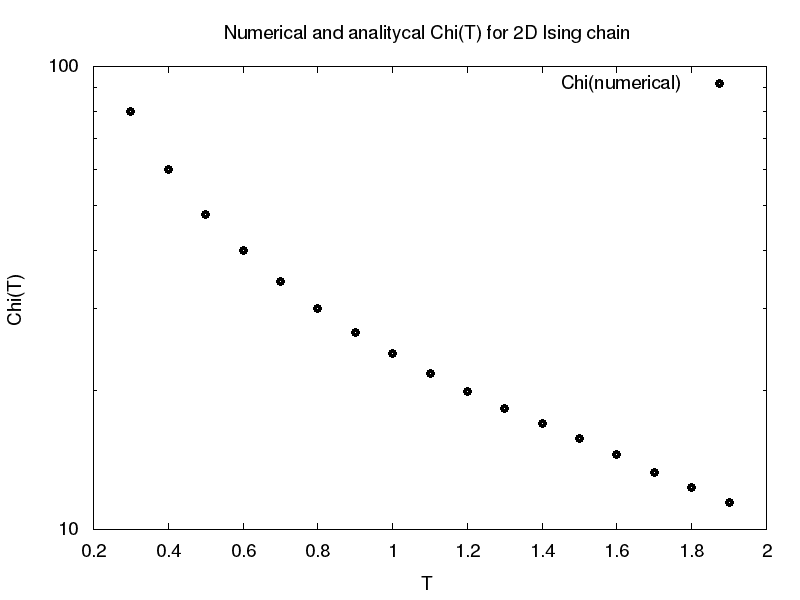
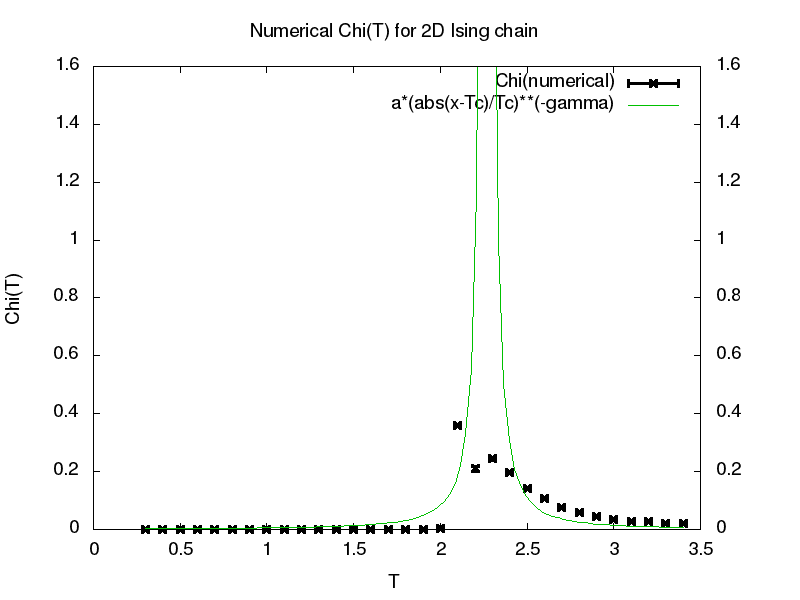
Fixed problem with calculation of Chi

diff --git a/trunk/IsingModelSimulations5_2/Tests/IsingTestChi2D.h b/trunk/IsingModelSimulations5_2/Tests/IsingTestChi2D.h
@@ -38,11 +38,11 @@ class IsingTestChi2D : public IsingTest {
         cout << " Running test..." << endl;    
             
         //SIMULATION INPUT DATA
-        int chainLength      = 5;        
+        int chainLength      = 10;        
         double magneticField = 0.0;
-        int therm_t          = 100;   //thermalization time
-        int measure_f        = 1;     //measure frequency
-        int prod_t           = 1000;  //productiontime
+        int therm_t          = 1000;   //thermalization time
+        int measure_f        = 10;     //measure frequency
+        int prod_t           = 10000;  //productiontime
         int maxGdist         = 10;     //domain of correlation function extends from 0 to maxGdist-1
         int maxTsep          = 2;
         double initState     = 0.7;    //values between 0.5 and 1.0
@@ -60,7 +60,7 @@ class IsingTestChi2D : public IsingTest {
         cout << "----------------------------------------------------" << endl;
         
         
-        for( double temperature = 0.3 ; temperature < 2.0 ; temperature += 0.1  ){         
+        for( double temperature = 0.3 ; temperature < 3.5 ; temperature += 0.1  ){         
         //CREATION AND INITIALIZATION OF THE INSTANCE OF ISING CLASS
         Ising2D chain2D(chainLength, temperature, magneticField, initState, maxGdist, maxTsep);
         //CALL TO THE ISING CLASS MEMBER FUNCTION PERFORMING SIMULATION
@@ -91,6 +91,7 @@ class IsingTestChi2D : public IsingTest {
         Ising2D chain2D(n, temperature, magneticField, initState, maxGdist, maxTsep);
         //CALL TO THE ISING CLASS MEMBER FUNCTION PERFORMING SIMULATION
         chain2D.MC_simulation(therm_t, prod_t, measure_f, METHOD_METROPOLIS);
+        
                 
         double chi      = chain2D.Chi(gettotalFname().c_str());
         //double chi_anal = exp(2./temperature)/temperature;

diff --git a/trunk/IsingModelSimulations5_2/IsingMain5_2.cpp b/trunk/IsingModelSimulations5_2/IsingMain5_2.cpp
@@ -70,7 +70,7 @@ int main(int argc, char** argv) {
      IsingTestChi2D isingTestChi2D; 
     //IsingTestError2D isingTestError2D;
     // IsingTestCC2D isingTestCC2D;   //  Ising2D test of CC in function of T for different lattices
-    // IsingTestM2D isingTestM2D;     //  Ising2D test of M in function of T for different lattices        
+     IsingTestM2D isingTestM2D;     //  Ising2D test of M in function of T for different lattices        
     //  IsingTestExact2D isingTestExact2D; // Ising2D test which calculates the exacts values of Cv for  small lattices
 
     // IsingTestE1D isingTestE1D;

diff --git a/trunk/IsingModelSimulations5_2/Ising5_2.h b/trunk/IsingModelSimulations5_2/Ising5_2.h
@@ -86,8 +86,8 @@ public:
 
     
     //ZERO FIELD SUSCEPTIBILITY
-    double Chi(string totalFname);         //magnetic susceptibility calculated using order parameter fluctuation method
-    double Chi( vector<vector<short> > SS );
+    virtual double Chi(string totalFname);         //magnetic susceptibility calculated using order parameter fluctuation method
+    virtual double Chi( vector<vector<short> > SS );
     
     //SPECIFIC HEAT
     double CC();          //specific heat measured using energy fluctuation method calclutated from simulation

diff --git a/trunk/IsingModelSimulations5_2/Ising5_2.cpp b/trunk/IsingModelSimulations5_2/Ising5_2.cpp
@@ -402,14 +402,14 @@ double Ising::Chi( vector<vector<short> > SS ) {
         //calculation of magnetisation M
         for(int i=0;i<N;i++){
             M_temp+=SS[j][i];
-        }
+        }        
         //calculation of <M> and <M^2>
         aM+=M_temp;
         aM2+=M_temp*M_temp;
     }
     //normalization by number of measures and sites
     aM=aM/t_steps/N; 
-    aM2=aM2/t_steps/N;
+    aM2=aM2/t_steps/N/N;
     
     return (aM2-aM*aM)/T; //Chi
 }

diff --git a/trunk/IsingModelSimulations5_2/Tests/IsingTestChi.h b/trunk/IsingModelSimulations5_2/Tests/IsingTestChi.h
@@ -59,7 +59,7 @@ class IsingTestChi : public IsingTest {
         chain.MC_simulation(therm_t, prod_t, measure_f);
                 
         double chi      = chain.Chi(gettotalFname().c_str());
-        double chi_anal = exp(2./temperature)/temperature;
+        double chi_anal = exp(2./temperature)/temperature/chain.N;
         double error    = chain.ERROR(gettotalFname().c_str(), ERROR_CHI);
 
         // saving data to file

diff --git a/trunk/IsingModelSimulations5_2/Tests/IsingTestM2D.h b/trunk/IsingModelSimulations5_2/Tests/IsingTestM2D.h
@@ -80,7 +80,7 @@ class IsingTestM2D : public IsingTest {
         for(unsigned int t = 0 ; t < dataT.size() ; t++ ){
              data_out << std::scientific << dataT[t] << "\t";   
              for(int i = 0; i < 4 ; i++){
-                 data_out << fabs(dataNxN[i][t]) << "\t";
+                 data_out << fabs(dataNxN[i][t]) << "\t" ;
              }
              data_out << endl;
         }
